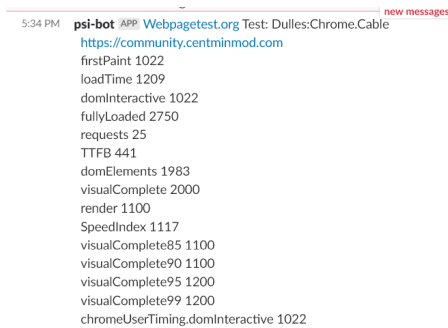
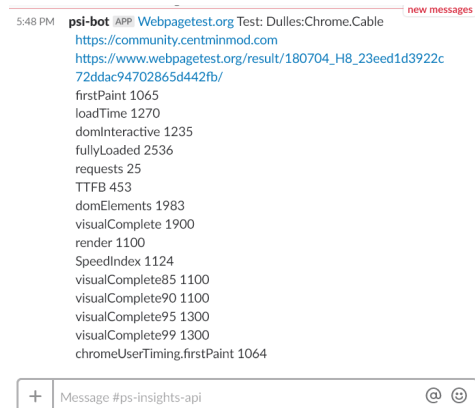
update webpagetets.org output format
ensure wpt test result url is displayed

Changed region(s): [[0.0, 0.0, 1.0, 1.0]]

diff --git a/readme.md b/readme.md
@@ -846,34 +846,33 @@ Currently, tests are done only from Dulles, VA location for Chrome Cable 5Mbps s
 ```
 cd /root/tools/google-insights-api-tools
 
-./gitools.sh wpt https://community.centminmod.com
+./gitools.sh wpt https://community.centminmod.com             
 
----------------------------------------------
+--------------------------------------------------------------------------------
 Dulles:Chrome.Cable WPT Results
----------------------------------------------
-Test ID: 180704_H6_8c4685519452de69aadc5ecf8bc1bd94
-https://www.webpagetest.org/result/180704_H6_8c4685519452de69aadc5ecf8bc1bd94/
-/home/wptresults/wpt-dulles.chrome.cable.040718-072927.log
+--------------------------------------------------------------------------------
+Test ID: 180704_H8_23eed1d3922c72ddac94702865d442fb
+https://www.webpagetest.org/result/180704_H8_23eed1d3922c72ddac94702865d442fb/
+/home/wptresults/wpt-dulles.chrome.cable.040718-074351.log
 Ok
 ----
-firstPaint 1022 
-loadTime 1209 
-domInteractive 1022 
-fullyLoaded 2750 
+firstPaint 1065 
+loadTime 1270 
+domInteractive 1235 
+fullyLoaded 2536 
 requests 25 
-TTFB 441 
+TTFB 453 
 domElements 1983 
-visualComplete 2000 
+visualComplete 1900 
 render 1100 
-SpeedIndex 1117 
+SpeedIndex 1124 
 visualComplete85 1100 
 visualComplete90 1100 
-visualComplete95 1200 
-visualComplete99 1200 
-chromeUserTiming.domInteractive 1022 
+visualComplete95 1300 
+visualComplete99 1300 
+chromeUserTiming.firstPaint 1064 
 ok----
----------------------------------------------
-
+--------------------------------------------------------------------------------
 ```
 
 ### WebpageTest.org Slack Channel
